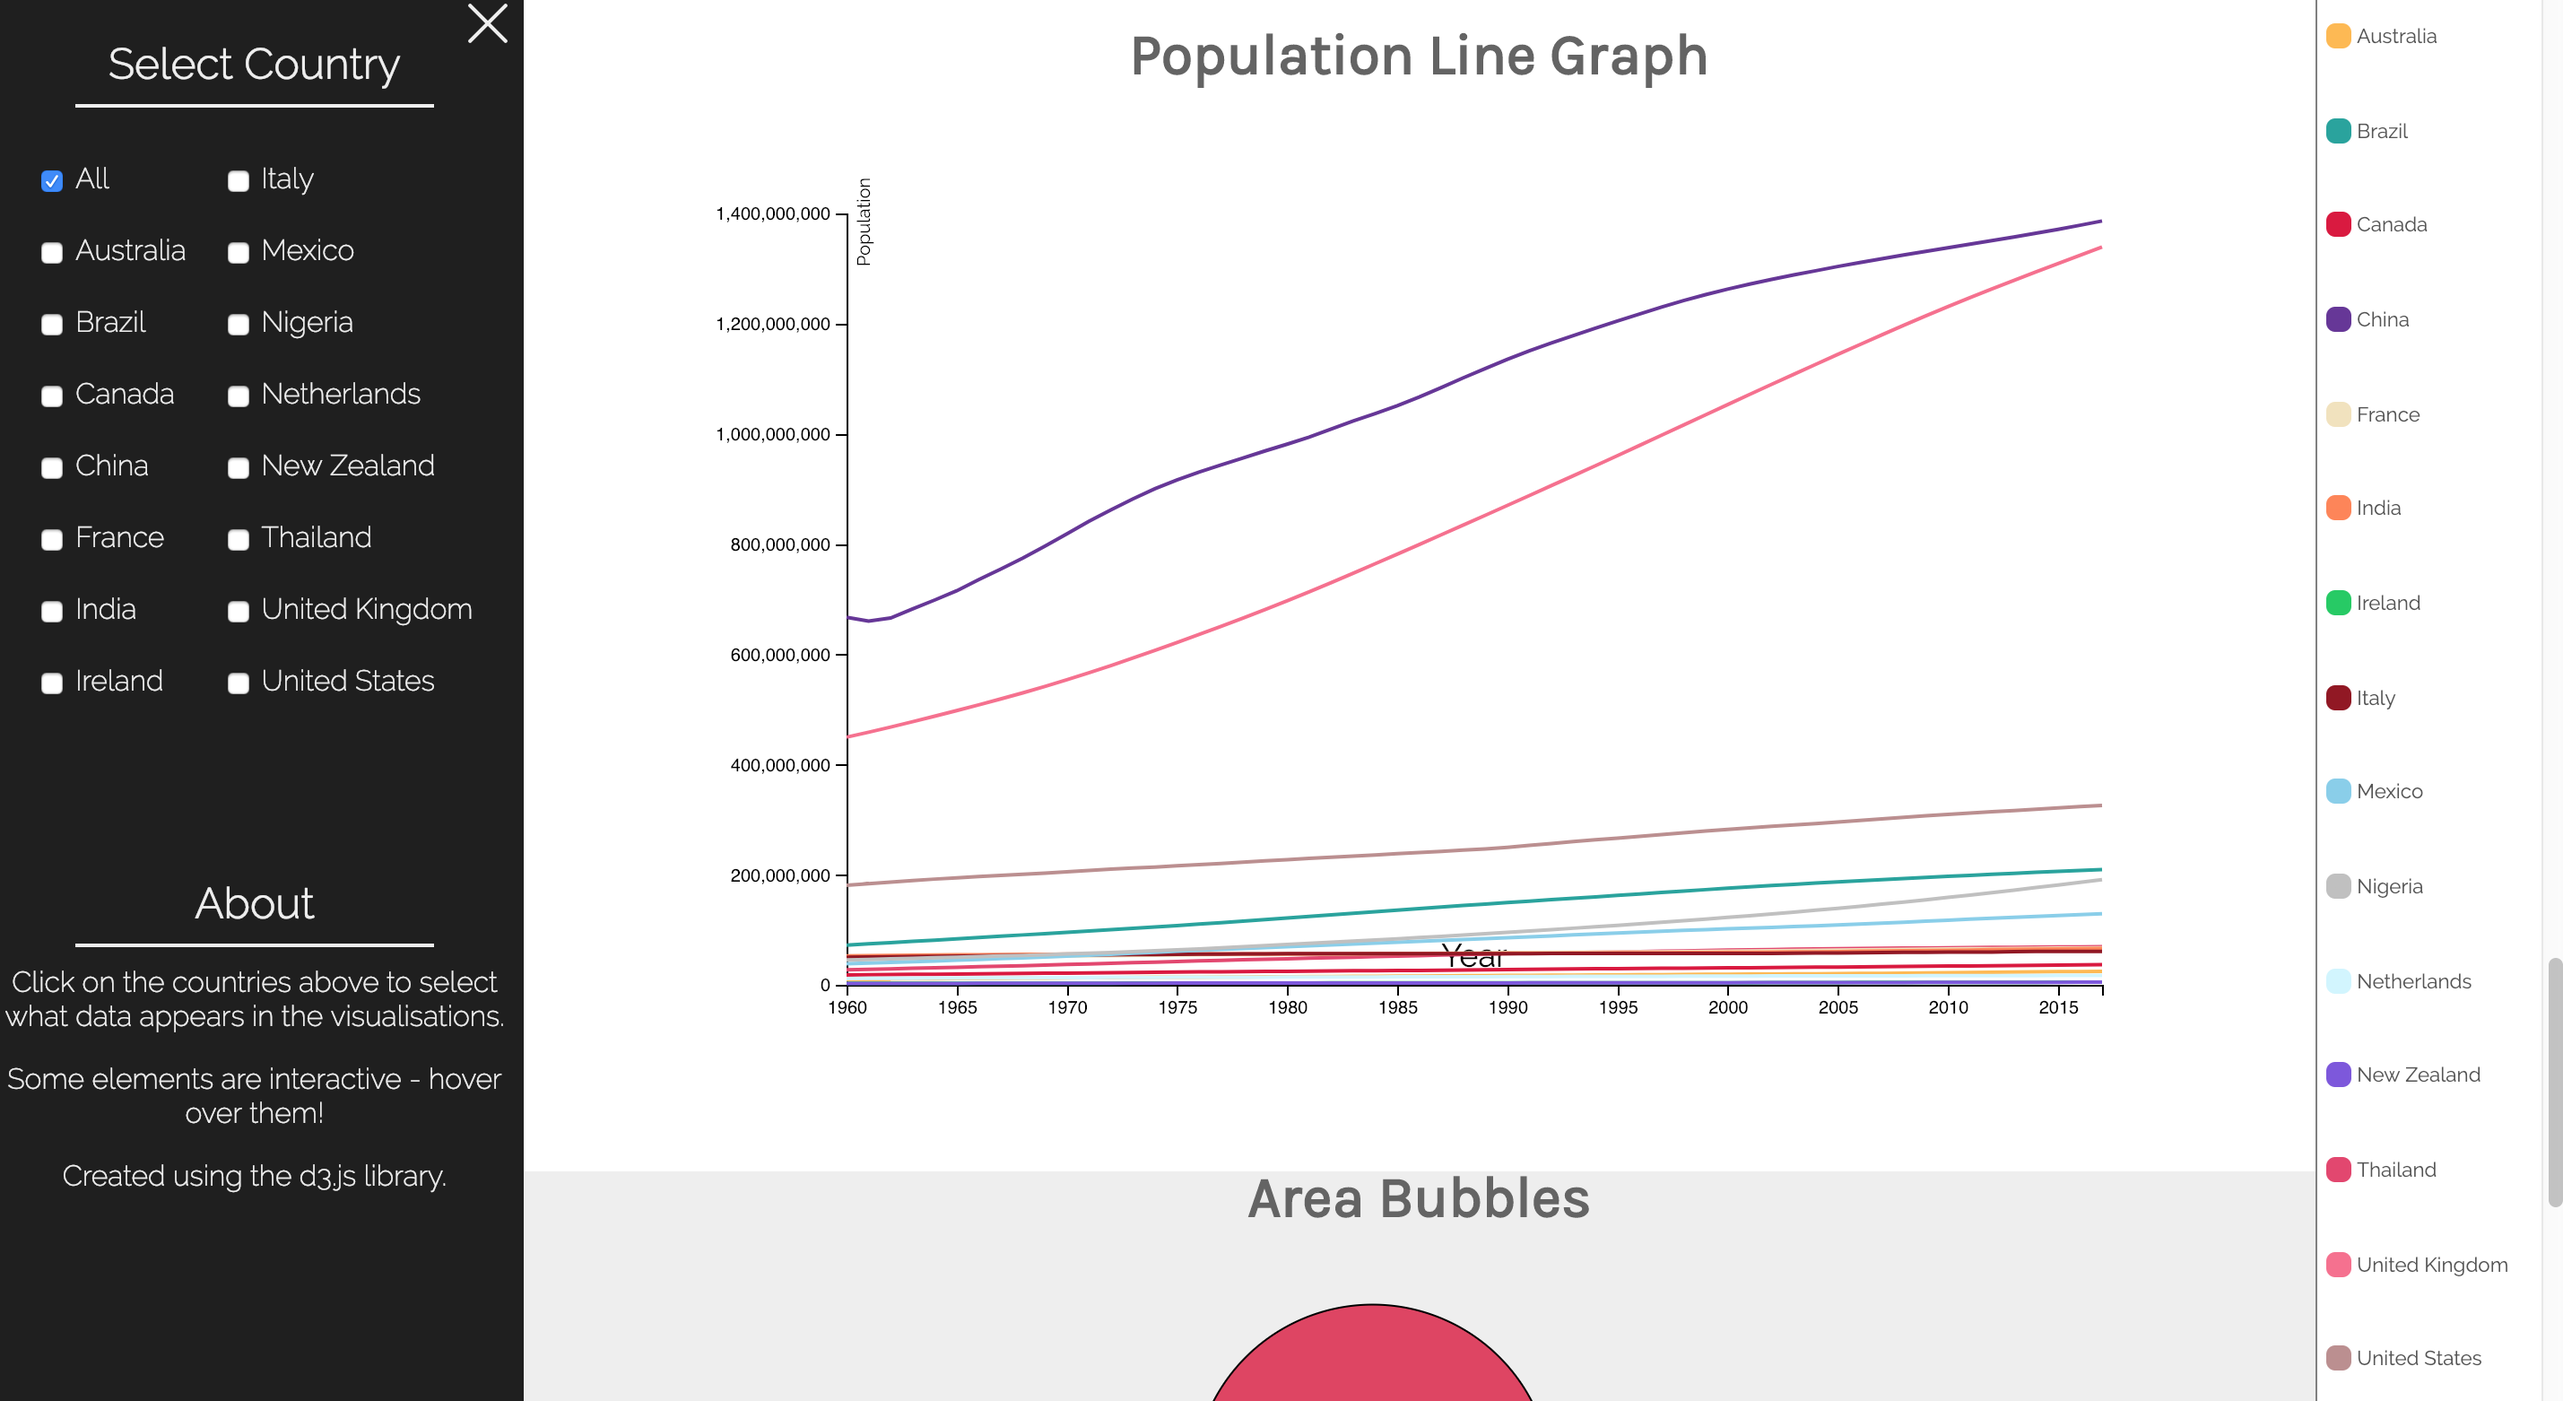
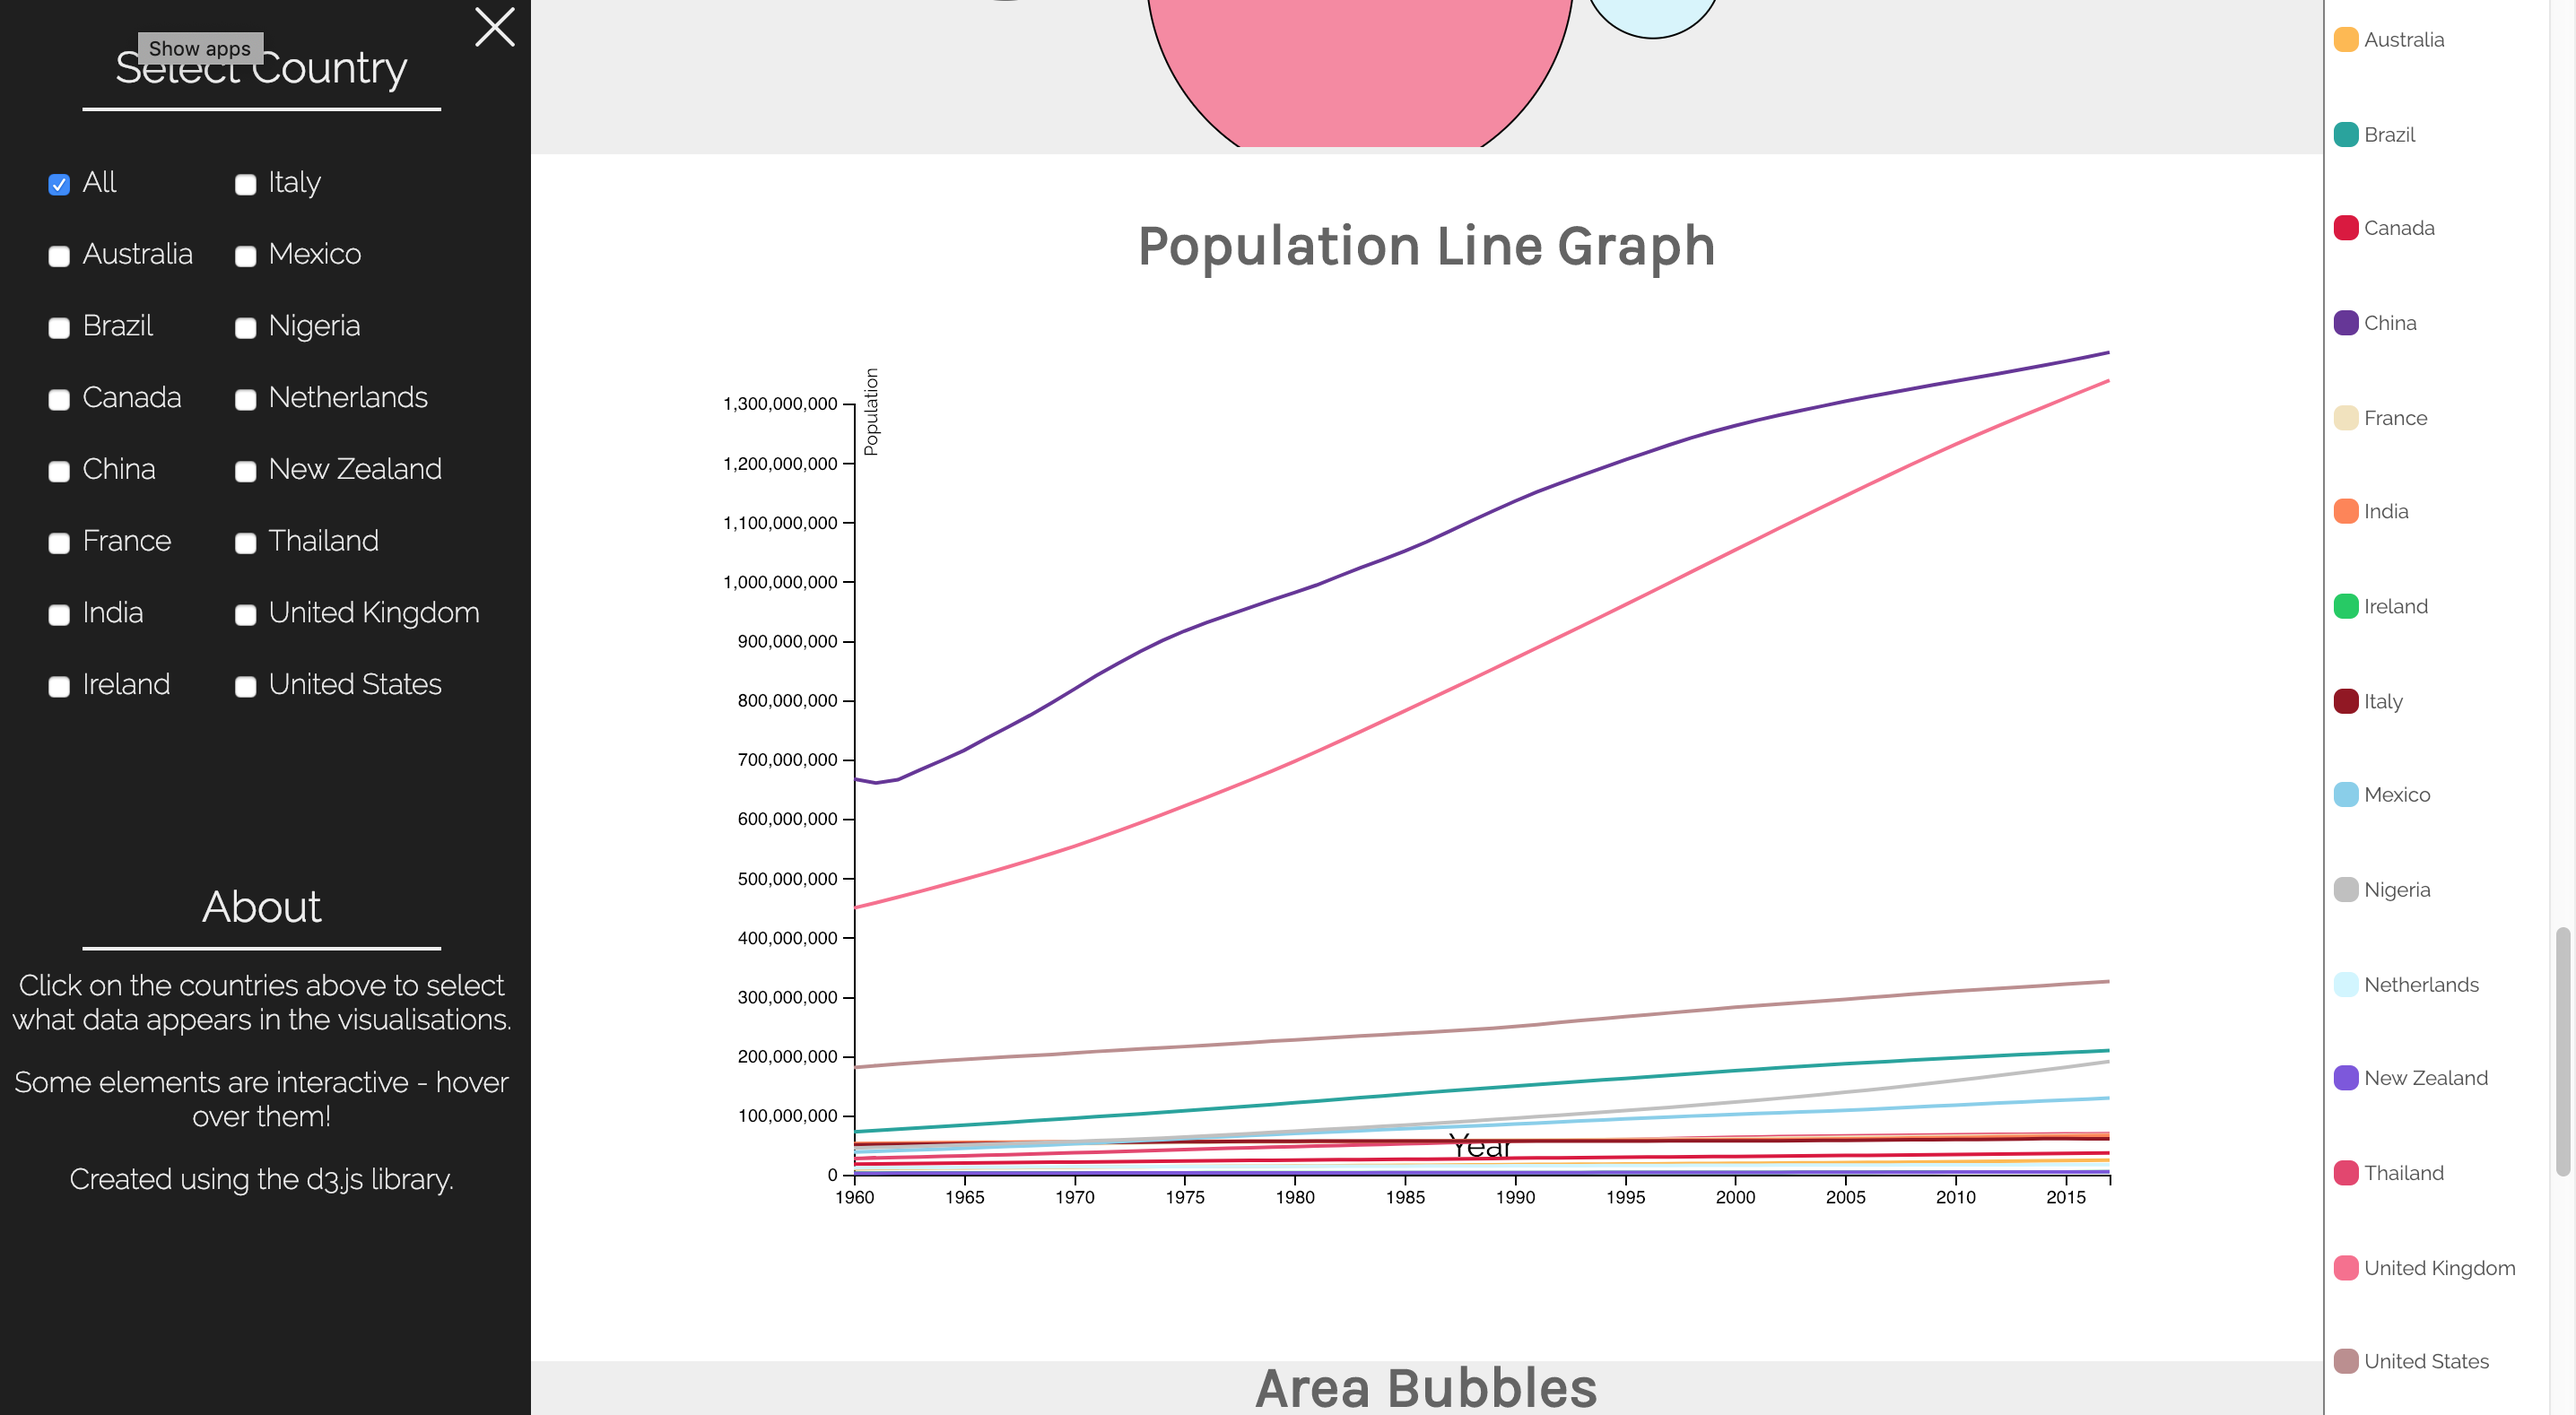
Trying to get new line chart to show

diff --git a/js/linepop.js b/js/linepop.js
@@ -24,7 +24,7 @@ $(document).ready(function(){
 
   let yPop = d3.scaleLinear()
     .range([heightPop, 20])
-    .domain([0, 1400000000])
+    .domain([0, 1300000000])
     //.base(5)
 
   let xAxisCallPop = d3.axisBottom()
@@ -34,7 +34,7 @@ $(document).ready(function(){
     })
 
     let yAxisCallPop = d3.axisLeft()
-      .ticks(8)
+      .ticks(10)
 
 
   let linePop = d3.line()

diff --git a/README.md b/README.md
@@ -60,7 +60,7 @@ The below line graph shows how a given country's population has changed over tim
 from 1960-2017. Like the other visualisations, a given country can be shown alone
 or by toggling off or on which countries you want to investigate further.
 
-![Population Line Graph](/images/2019/02/PopulationLineGraph.)
+![Population Line Graph](/images/2019/02/PopulationLineGraph.png)
 
 
 ## Scope of Project as of 14-2-2019
@@ -72,6 +72,7 @@ or by toggling off or on which countries you want to investigate further.
 - We only had a week and this was the first time we were introduced to, let alone had a chance to play with D3.
 - Would like to possibly add more countries and further explore what the D3 library has to offer
 - Optimisation of the site could be improved
+- More time to solve scaleLog vs. scaleLinear presentation of data for population line graph
 
 
 ## Big Thanks
